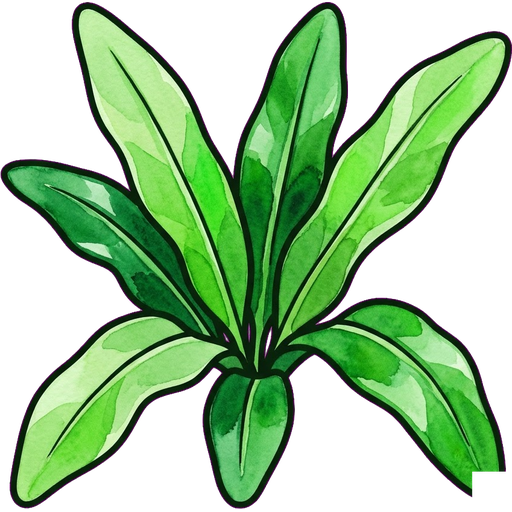
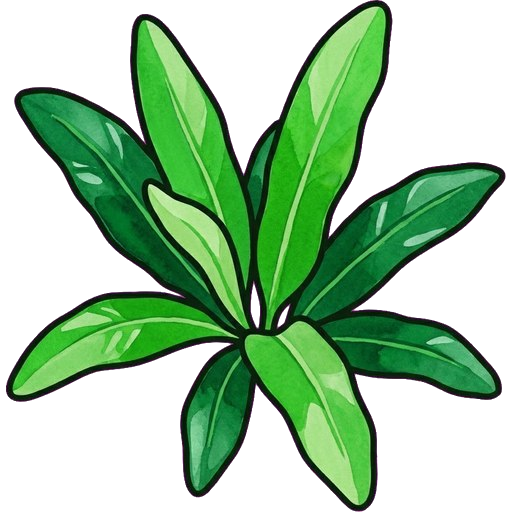
Sticker: add Maidenhair Fern; replace Hart's Tongue Fern with approved v2 (white BG, 13% erase)

diff --git a/app/src/data/packs/pack-ferns-woodland.js b/app/src/data/packs/pack-ferns-woodland.js
@@ -56,4 +56,13 @@ export const entries = [
     traits: ['shade', 'evergreen', 'strap-leafed'],
   },
 
+  {
+    key: 'plant-fern_maidenhair-fern_M_CA-US-FR-GB-AU',
+    label: 'Maidenhair Fern',
+    size: 'M',
+    latinName: 'Adiantum pedatum',
+    searchTerms: ['maidenhair fern', 'adiantum', 'venus hair'],
+    traits: ['shade', 'deciduous-fern', 'delicate'],
+  },
+
 ];

diff --git a/tools/sticker-generate-one.py b/tools/sticker-generate-one.py
@@ -92,7 +92,7 @@ PLANT_LOOKUP = {
     "male fern":         ("plant-fern_male-fern",         "L",  384, "Fern / Groundcover", "plant", "deep forest green #2A6A3A, mid green #4A8A5A, bright green #5AB83A, pale green undersides #8ABF6A, dark outline #0A1A0A", "Robust upright vase of large pinnate fronds, each frond broadly lance-shaped with rounded lobed pinnules, fronds arching outward from the centre in a semi-evergreen clump."),
     "ostrich fern":      ("plant-fern_ostrich-fern",      "L",  384, "Fern / Groundcover", "plant", "vivid green #5AB83A, deep green #2A6A3A, bright lime-green #7AC83A, pale green #8ABF6A, dark outline #0A1A0A", "Iconic vase-shaped fern with large broadly lance-shaped fronds that are wide in the middle and narrow at both ends, fronds spreading dramatically outward like a shuttlecock or ostrich plume."),
     "japanese painted fern": ("plant-fern_japanese-painted-fern", "M", 256, "Fern / Groundcover", "plant", "silver-grey #A8B8B0, pewter-green #7A9A8A, burgundy-red midrib #8B2A2A, pale silver fronds #C8D8D0, dark outline #0A1818", "Bushy fern with many fronds, distinctive silver-grey fronds marked with a deep burgundy-red midrib, fronds are pinnate and elegantly arched, full lush clump radiating from centre, giving a painted metallic appearance."),
-    "hart's tongue fern": ("plant-fern_harts-tongue-fern", "M", 256, "Fern / Groundcover", "plant", "deep glossy green #1A6A3A, bright green #4AAF5A, pale green #8ABF6A, dark outline #0A1A0A", "Highly distinctive fern with undivided strap-shaped glossy green fronds arising from the centre in a rosette, each frond is a single uncut strap — no leaflets, no divisions — glossy and leathery."),
+    "hart's tongue fern": ("plant-fern_harts-tongue-fern", "M", 256, "Fern / Groundcover", "plant", "deep glossy green #1A6A3A, bright green #4AAF5A, pale green #8ABF6A, dark outline #0A1A0A", "Highly distinctive fern with undivided strap-shaped glossy green fronds arising from the centre in a rosette, each frond is a single uncut strap — no leaflets, no divisions — glossy and leathery. Plant fills 60% of the canvas, centred, with plenty of space around it."),
     "maidenhair fern":   ("plant-fern_maidenhair-fern",   "M",  256, "Fern / Groundcover", "plant", "bright green #5AB83A, mid green #4A8A3A, black wiry stems #1A0A0A, pale yellow-green #A8D870, dark outline #0A1A0A", "Dense bushy fern, plant centered and taking up 75% of the center of the image, slender black wiry stems bearing fan-shaped light green leaflets arranged in gentle arching fronds, lush full appearance like masses of green fans on black wire."),
     "soft shield fern":  ("plant-fern_soft-shield-fern",  "L",  384, "Fern / Groundcover", "plant", "mid green #4A8A3A, deep green #2A6A3A, bright green tips #6AAF5A, pale green undersides #8ABF6A, dark outline #0A1A0A", "Arching spreading fern with softly textured pinnate fronds, each frond has finely divided pinnules giving a lacy feathery appearance, fronds arch gently outward from the centre in a spreading clump."),
     "broad buckler fern": ("plant-fern_broad-buckler-fern", "L", 384, "Fern / Groundcover", "plant", "mid green #4A8A3A, deep green #2A6A3A, grey-green undersides #7A9A7A, dark outline #0A1A0A", "Large broadly triangular spreading fern with wide-angled pinnate fronds, each frond broadly triangular in outline and spreading wide, the plant making a broad low carpet of overlapping fronds."),

diff --git a/tools/reprocess-white-bg.py b/tools/reprocess-white-bg.py
@@ -36,7 +36,7 @@ new_alpha = np.where(hard_transparent, 0,
 data[:,:,3] = new_alpha
 
 # Erase Gemini watermark — bottom-right 8% only (much smaller than before)
-data[int(h * 0.85):, int(w * 0.85):, 3] = 0
+data[int(h * 0.87):, int(w * 0.87):, 3] = 0
 
 result = Image.fromarray(np.clip(data, 0, 255).astype(np.uint8), 'RGBA')
 
